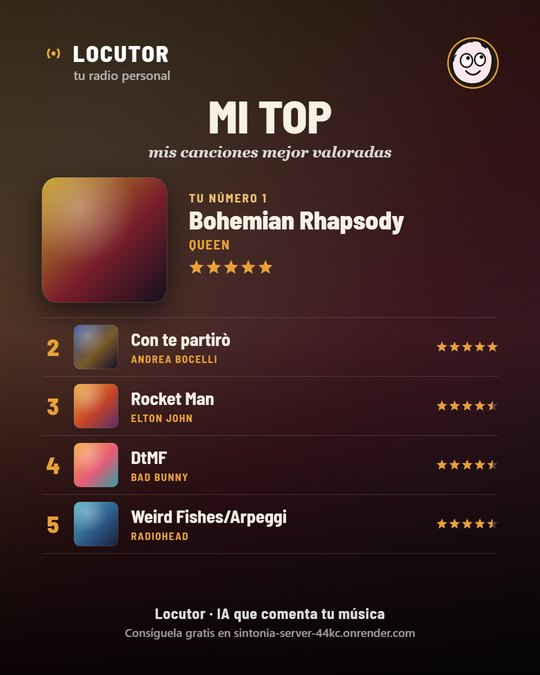
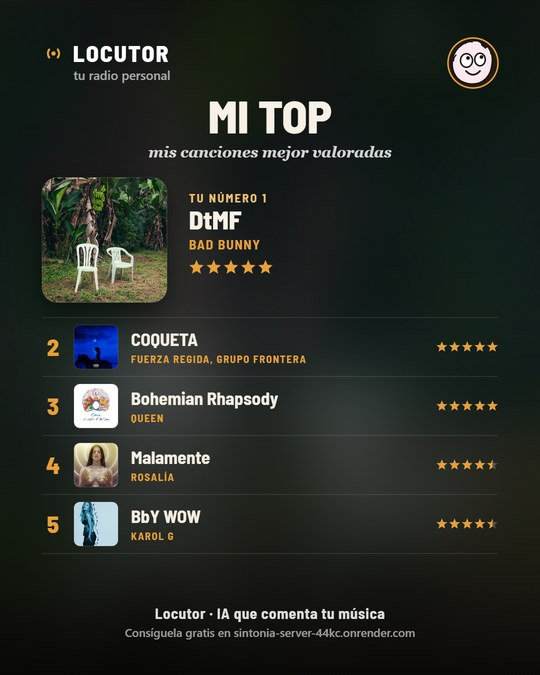
Landing 2.30: novedades y capturas con carátulas reales
- Sección «Novedades · 2.30» (y enlace en el menú): ▶ más rápido con la ficha preparada y guardada,
  cada canción con su historia, colaboraciones con todos sus artistas, y el resto en una línea.
- Capturas reales: portada con DtMF y su carátula, Carta de BbY WOW, Cita de Malamente,
  Mi semana y Mi top (antes, portadas de relleno).
- IA gratis: Gemini o Groq; Mistral, OpenAI o Claude también valen.
- «Para compartir» ya no lleva la etiqueta NUEVO.

diff --git a/public/index.html b/public/index.html
@@ -96,6 +96,7 @@
   .feat p{color:var(--dim);font-size:16px;margin:0 0 14px}
   .feat p b{color:var(--text)}
   .kicker{display:inline-flex;align-items:center;gap:8px;font-family:var(--mono);font-size:11.5px;letter-spacing:.14em;color:var(--amber);text-transform:uppercase}
+  .sec-lbl .new-lbl{background:var(--amber);color:#211404;font-weight:800;border-radius:5px;padding:1px 6px;font-size:10.5px;letter-spacing:.06em;margin-right:6px}
   .kicker .new{background:var(--amber);color:#211404;font-weight:800;border-radius:5px;padding:1px 6px;font-size:10.5px;letter-spacing:.06em}
   .fig{display:flex;justify-content:center}
   .fig .device{max-width:300px}
@@ -197,6 +198,7 @@
   <div class="brand"><svg viewBox="0 0 64 64" fill="none" stroke="currentColor" stroke-width="6" stroke-linecap="round"><circle cx="32" cy="32" r="6" fill="currentColor" stroke="none"/><path d="M20 21 a19 19 0 0 0 0 22"/><path d="M44 21 a19 19 0 0 1 0 22"/></svg>LOCUTOR</div>
   <div class="nav-links">
     <a href="#como">Cómo funciona</a>
+    <a href="#novedades">Novedades</a>
     <a href="#potencial">Qué hace</a>
     <a href="#precios">Precios</a>
     <a href="#faq">Dudas</a>
@@ -233,6 +235,19 @@
   <span><span class="i">✓</span><b>Tu clave, tu equipo</b> — cifrada, nunca en el servidor</span>
   <span><span class="i">✓</span><b>Gratis</b> — con opciones de IA sin tarjeta</span>
 </div></div>
+
+<!-- NOVEDADES 2.30 -->
+<section id="novedades"><div class="wrap center">
+  <div class="sec-lbl"><span class="new-lbl">NUEVO</span> NOVEDADES · 2.30</div>
+  <h2 class="big reveal">Más rápida, y mejor contada.</h2>
+  <p class="sec-sub reveal">Lo nuevo de esta versión, después de probarla a fondo con decenas de canciones y varias IA.</p>
+  <div class="grid">
+    <div class="card reveal"><div class="ico"><svg viewBox="0 0 24 24"><circle cx="12" cy="13" r="8"/><path d="M12 9v4l2.5 2.5M10 2h4"/></svg></div><h4>Pulsas ▶ y habla antes</h4><p>La ficha de cada canción se prepara mientras suena y se guarda en tu equipo: si la canción vuelve a sonar, la comenta al momento.</p></div>
+    <div class="card reveal"><div class="ico"><svg viewBox="0 0 24 24"><path d="M5 4h10a3 3 0 0 1 3 3v13H8a3 3 0 0 1-3-3z"/><path d="M5 17a3 3 0 0 1 3-3h10M9 8h5"/></svg></div><h4>Cada canción, su historia</h4><p>Cada comentario parte de la historia principal de la canción y la cuenta con el estilo de tu locutor: los años en cifras y sin relleno.</p></div>
+    <div class="card reveal"><div class="ico"><svg viewBox="0 0 24 24"><circle cx="8.5" cy="8" r="3.2"/><circle cx="16.5" cy="9.5" r="2.6"/><path d="M3 19c.6-3.2 2.8-5 5.5-5s4.9 1.8 5.5 5M14.5 14.6c.6-.3 1.3-.5 2-.5 2.2 0 3.9 1.5 4.5 4.4"/></svg></div><h4>Con todos los artistas</h4><p>Colaboraciones escritas con «&amp;», «x» o «feat.»: ahora también encuentra sus fuentes.</p></div>
+  </div>
+  <p class="mono" style="color:var(--dim);font-size:13px;margin-top:22px">Además: Groq al día (Qwen 3.8 por defecto), claves nuevas de Gemini, el comentario sale aunque tu IA vaya saturada, «Con crítica real» avisa si no hay críticas y voces nuevas.</p>
+</div></section>
 
 <!-- POTENCIAL -->
 <section id="potencial"><div class="wrap">
@@ -293,7 +308,7 @@
       <img class="f2" src="img/share-cita.jpg" alt="Tarjeta Cita: el comentario del locutor de protagonista, con la carátula, tus estrellas y los datos del disco" loading="lazy" />
     </div></div>
     <div class="reveal">
-      <span class="kicker"><span class="new">NUEVO</span> Para compartir</span>
+      <span class="kicker">Para compartir</span>
       <h3>Cada canción, en una tarjeta que da gusto enseñar.</h3>
       <p>Guarda el comentario como una <b>Carta</b> —la canción con todo: carátula, tus estrellas, el comentario y la ficha del disco— o compártelo como una <b>Cita</b>, pensada para redes.</p>
       <ul class="ticks">
@@ -311,7 +326,7 @@
     <div class="card reveal"><div class="ico"><svg viewBox="0 0 24 24"><path d="M12 20s-6.8-4.2-9.1-8.4C1.3 8.7 2.8 5.7 5.6 5.4 7.5 5.2 9 6.1 12 8.6c3-2.5 4.5-3.4 6.4-3.2 2.8.3 4.3 3.3 2.7 6.2C18.8 15.8 12 20 12 20z"/></svg></div><h4>Te conoce</h4><p>Aprende tus gustos entre sesiones y los referencia con naturalidad. Tu radio, cada vez más tuya.</p></div>
     <div class="card reveal"><div class="ico"><svg viewBox="0 0 24 24"><path d="M7 3h7l4 4v14H7z"/><path d="M14 3v4h4M10 12h5M10 15.5h5"/></svg></div><h4>Comentario a fondo</h4><p>Un análisis por aspectos —la letra, la producción, la historia…— que te guardas en PDF, con su carátula y tu nota. En Premium.</p></div>
     <div class="card reveal"><div class="ico"><svg viewBox="0 0 24 24"><path d="M4.5 5h15v10H9l-4.5 3.5z"/><path d="M9.6 8.6a2.4 2.4 0 1 1 2.9 2.4v.9"/><circle cx="12.4" cy="13.4" r=".7" fill="#E8A13A" stroke="none"/></svg></div><h4>Test musical</h4><p>Un juego con preguntas sobre TUS canciones, sacadas de lo que ya te han contado y de sus fuentes.</p></div>
-    <div class="card reveal"><div class="ico"><svg viewBox="0 0 24 24"><circle cx="8" cy="8" r="4.5"/><path d="M11.2 11.2 20 20M16.7 16.7 18.7 14.7M14.2 14.2 16.2 12.2"/></svg></div><h4>Tu IA, tu elección</h4><p>Gemini, Groq, Mistral (gratis), OpenAI o Claude. Si tu IA va saturada o sin cupo, prueba sola su modelo ligero u otra de tus claves.</p></div>
+    <div class="card reveal"><div class="ico"><svg viewBox="0 0 24 24"><circle cx="8" cy="8" r="4.5"/><path d="M11.2 11.2 20 20M16.7 16.7 18.7 14.7M14.2 14.2 16.2 12.2"/></svg></div><h4>Tu IA, tu elección</h4><p>Gemini o Groq gratis, o Mistral, OpenAI o Claude. Si tu IA va saturada o sin cupo, prueba sola su modelo ligero u otra de tus claves.</p></div>
   </div>
 </div></section>
 
@@ -332,7 +347,7 @@
     </div>
     <div class="step reveal">
       <h3>Pon tu clave gratis</h3>
-      <p>Sin clave nombra las canciones con datos de sus fuentes. Con una <b style="color:var(--text)">gratis y sin tarjeta</b> (Gemini, Groq o Mistral) las comenta con IA: la app te guía y la reconoce sola.</p>
+      <p>Sin clave nombra las canciones con datos de sus fuentes. Con una <b style="color:var(--text)">gratis y sin tarjeta</b> (Gemini o Groq) las comenta con IA: la app te guía y la reconoce sola.</p>
     </div>
   </div>
 </div></section>
@@ -372,7 +387,7 @@
       <div class="tag">GRATIS</div>
       <div class="amt">0€</div>
       <ul>
-        <li>Con tu clave (Gemini/Groq/Mistral gratis)</li>
+        <li>Con tu clave (Gemini o Groq, gratis)</li>
         <li>Un locutor comentando</li>
         <li>Comentario <b>breve</b></li>
         <li>Voz natural gratis o la voz de tu IA</li>
@@ -398,7 +413,7 @@
       <a class="btn" href="#descargar" style="width:100%;justify-content:center">Empezar</a>
     </div>
   </div>
-  <p style="color:var(--dim);font-size:13px;margin-top:22px;max-width:640px;margin-left:auto;margin-right:auto">La IA es siempre <b style="color:var(--text)">tu clave</b> (Gemini, Groq o Mistral tienen opción gratis). Premium solo desbloquea los modos avanzados de la app; no guardamos tus claves en el servidor.</p>
+  <p style="color:var(--dim);font-size:13px;margin-top:22px;max-width:640px;margin-left:auto;margin-right:auto">La IA es siempre <b style="color:var(--text)">tu clave</b> (Gemini y Groq tienen opción gratis). Premium solo desbloquea los modos avanzados de la app; no guardamos tus claves en el servidor.</p>
 </div></section>
 
 <!-- FAQ -->
@@ -407,7 +422,7 @@
   <h2 class="big reveal">Preguntas frecuentes.</h2>
   <div class="faq" style="text-align:left">
     <details open><summary>¿Usa el micrófono o graba lo que escucho?</summary><p>No. Locutor solo lee el <b>título y el artista</b> de la canción que ya está sonando, a través de Windows. No accede al micrófono ni graba ningún audio, y <b>no pide ni da ningún permiso</b>.</p></details>
-    <details><summary>¿Necesito una clave de inteligencia artificial? ¿Es difícil?</summary><p>Sí, la tuya propia — y es fácil: pega tu clave y la app la reconoce sola. Hay <b>varias gratis y sin tarjeta</b>: Gemini (aistudio.google.com), Groq (console.groq.com) o Mistral (console.mistral.ai). También valen OpenAI o Claude. Puedes guardar <b>varias</b>: si una se queda sin cuota, la app usa otra sola.</p></details>
+    <details><summary>¿Necesito una clave de inteligencia artificial? ¿Es difícil?</summary><p>Sí, la tuya propia — y es fácil: pega tu clave y la app la reconoce sola. Hay <b>opciones gratis y sin tarjeta</b>: Gemini (aistudio.google.com) o Groq (console.groq.com). También valen Mistral, OpenAI o Claude. Puedes guardar <b>varias</b>: si una se queda sin cuota, la app usa otra sola.</p></details>
     <details><summary>¿De dónde saca los datos?</summary><p>Locutor funciona como un <b>buscador bien documentado</b>: antes de comentar, consulta fuentes de referencia —<b>Genius, Wikipedia, MusicBrainz, Last.fm e iTunes</b>— y se apoya en ellas. Cada tarjeta te enseña de dónde sale cada dato.</p></details>
     <details><summary>¿Funciona con Spotify gratis?</summary><p>Sí. Funciona con Spotify (gratis o Premium), YouTube Music y la mayoría de apps que muestran la canción en Windows. Locutor solo necesita saber qué suena.</p></details>
     <details><summary>¿Comenta podcasts o vídeos?</summary><p>No: tu locutor comenta <b>canciones</b>. Si lo que suena es un podcast, te lo dice y no se pone a comentarlo como si fuera un tema.</p></details>
